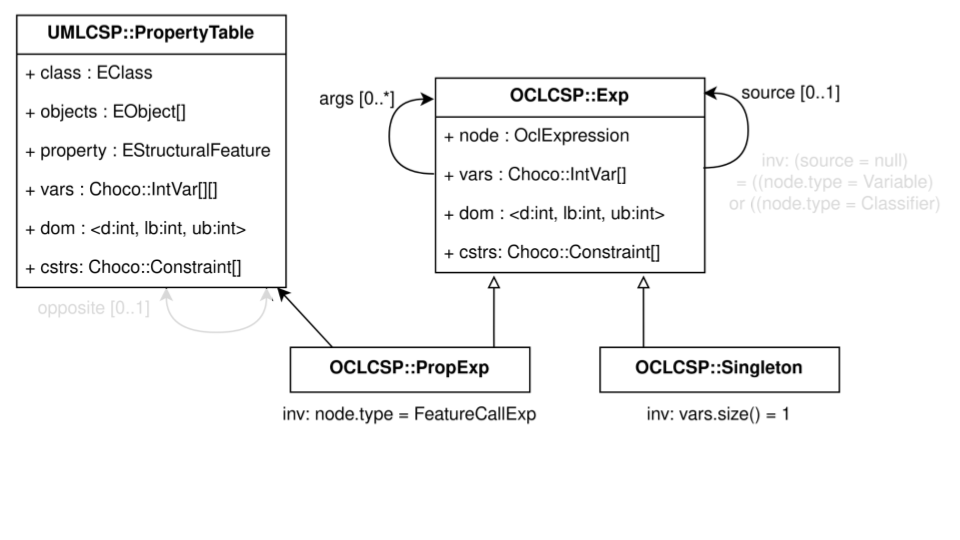
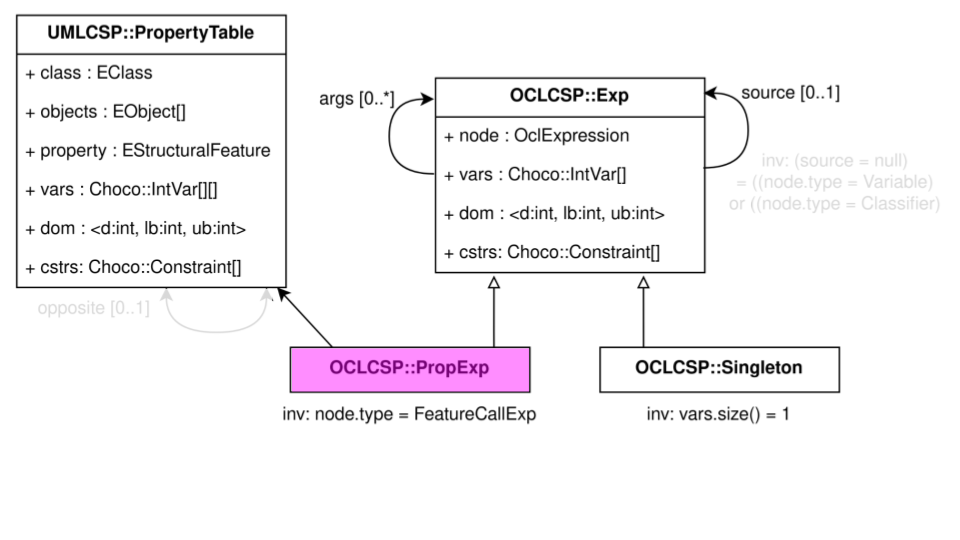
added to OCLCSP chapter intro

Changed region(s): [[0.2812, 0.6222, 0.5625, 0.7407]]

diff --git a/Contributions/OCLCSP/oclcsp.tex b/Contributions/OCLCSP/oclcsp.tex
@@ -1,6 +1,8 @@
 \clearemptydoublepage
 \chapter{Contribution : OCL CSP}
 In this chapter we'll cover the bulk of the CSPs which model OCL operations.
+Because of our use of a dummy variable in our encoding of collections, the CSPs will often have to model the semantics of the OCL operations around them.
+\ytodo{This can, in most cases, also manage the behaviour of invalid or void expressions.}
 
 \begin{figure}[!ht]
     \centering
@@ -8,6 +10,12 @@ In this chapter we'll cover the bulk of the CSPs which model OCL operations.
     \caption{metamodel of expressions in OCLCSP}
     \label{fig:mm:oclcsp}
 \end{figure}
+Using our \textit{map}, are now on the side of the \textit{OCL CSP}, for which all models inherit from \inlineocl{Exp}, which corresponds to a \inlineocl{OclExpression}.
+Every OCL expression will be associated to a CSP: a collection of variables holding the result of the operation, their initial shared domain, and constraints modeling the semantics of the operation.
+OCL expressions generally have a \textit{source}, and can have \textit{arguments}, all of which are also OCL expressions (the source can be understood as a special argument).
+When building a CSP, we may use information found in the arguments to determine the number of variables required, and their domain.
+% All models will have access to information specified here, such as details about domain ranges for intermediate variables.
+We've added the special case of \inlineocl{Singleton} which will be used for arithmetic, relational and logic operations, and some other operations operations such as \inlineocl{sum} and \inlineocl{first}.
 
 \begin{figure}[!ht]
     \centering
@@ -23,9 +31,12 @@ In this chapter we'll cover the bulk of the CSPs which model OCL operations.
         \caption{OCL Expression MMCoverage}
     \end{subfigure}
 \end{figure}
+In this chapter we'll cover most of this subset of OCL.
+For types this means focusing on Collections of booleans, integers and Objects (references).
+For the OCL expression metamodel, we cover most CallExp on collections of booleans, integers and Objects.
 
 
-\begin{table}[]
+\begin{table}[!ht]
     \begin{tabular}{|l|l|l|l|l|l|l|}
     \hline
     src \textbackslash out       & bool                                                                                                                            & int                                                                                            & element                                                                    & collection                                                                                        & Sequence                                                                            & Bag                                                                                  \\ \hline
@@ -37,10 +48,65 @@ In this chapter we'll cover the bulk of the CSPs which model OCL operations.
     Bag                          &                                                                                                                                 &                                                                                                &                                                                            &                                                                                                   &                                                                                     & \cellcolor[HTML]{FFFC9E}\begin{tabular}[c]{@{}l@{}}union\\ intersection\end{tabular} \\ \hline
     \end{tabular}
 \end{table}
+With this table we want to describe how we have divided the different operations across different sections.
+For the following sections we'll be grouping operations based on input amd output type: in green we have grouped operation for which the input and output are integers or booleans, and of type \inlineocl{Singleton}.
+For collections, in various shades of blue, we'll split based on output: \inlineocl{Singleton} integer, \inlineocl{Singleton} boolean, elements and collections, and typed collections.
+For typed collections, the split is on whether the collection is ordered, in red, or not, in yellow.
+\begin{figure}[!ht]
+    \centering
+    \includegraphics[trim={0 0 0 0},width=1\linewidth]{Contributions/OCLCSP/figures/cheatsheetcoverage.png}
+    \caption{cheat sheet coverage in OCLCSP}
+    \label{fig:mm:oclcsp}
+\end{figure}
+We can similarly color the OCL cheat sheet, and show our coverage with a bit more detail.
+We can see the previous chapter on OCL navigation in pink.
+We can also clearly see operations we don't cover.
+Not present in the following sections are \inlineocl{collect} and \inlineocl{iterate}, though some special cases are employed in the models of collection operations, such as \inlineocl{select} and \inlineocl{forall}.
+Other operations which aren't included but can be inferred, such as: \inlineocl{allInstances} and other typed based operations.
+A similar encoding could also provide coverage for \textit{non-flat} collections and their associated operations, enumerations and tuples.
+Not covered with our method are operations on real numbers, and strings.
 
 The first section covers integer and boolean operations.
 Collection operations are split across result types: operations of section 2 result in integer, section 3 in booleans, section 4 in collections.
 Collection type casting operations are in section 5, and typed collection operations are found in the following sections. 
+The type casting operation are among some of the more complicated ones, but most are much less complex, and some are even simple.
+
+\subsection{..metamodel of the CSPs?}
+
+All of the following CSP will have the same pattern as for the navigation CSP.
+\begin{equation}\label{csp:operationGC}
+    operation(X,y):
+    \begin{cases}
+        GlobalConstraint1(X,X')\\
+        GlobalConstraint2(X',y)
+    \end{cases}
+\end{equation}
+Where the operation is described as a conjunction of global constraints.
+We will use uppercase letters such as $X$ to indicate arrays of variables.
+We will use lowercase letters, here $y$ to indicate a single variables.
+We will also generally use X for \textit{source} variables, and Y for the variables encoding the result of an operation.
+Commonly we'll need to introduce intermediate variables, such as $X'$.
+Importantly regarding propagation, for all these CSP: if the input variables $X$ are solved, their domains have only one value, the output variables $Y$ is also solved.
+
+Some times we will have to predicate on individual variables of the arrays.
+\begin{equation}\label{csp:operationI}
+    operation(X,Y):
+    \begin{cases}
+        \forall i \in [1..|X|]\\
+        ~~ y_i = x_i \times 3
+    \end{cases}
+\end{equation}
+Here each variable is $Y$ is equal to its corresponding value in $X$ times three.
+Some of the operation will also take the result of an expression, which in most cases doesn't apply to the source variables $X$.
+\begin{equation}\label{csp:operationEXP}
+    operation(X,y,exp):
+    \begin{cases}
+        y = \llbracket exp(X)\rrbracket
+    \end{cases}
+\end{equation}
+In this example, $y$ is equal to the result of applying $exp$ on $X$.
+This appears is only a few cases, such as \inlineocl{forall} and \inlineocl{select}
+Here we also introduce the $\llbracket \rrbracket$ notation indicating we're interpreting a boolean as an integer.
 
 
 \newpage
@@ -72,8 +138,12 @@ Collection type casting operations are in section 5, and typed collection operat
 \input{Contributions/OCLCSP/Operations/set}
 
 \newpage
-\section{CP Models for OCL Bag Operations}
-\input{Contributions/OCLCSP/Operations/bag}
+% \section{CP Models for OCL Bag Operations}
+% \input{Contributions/OCLCSP/Operations/bag}
+
+\newpage
+\section{Experimentation}
+\input{Contributions/OCLCSP/Operations/experimentation}
 
 % \section{CP Models for OCL Ordered Set Operations}
 % \input{Contributions/OCLCSP/Operations/orderedset}
